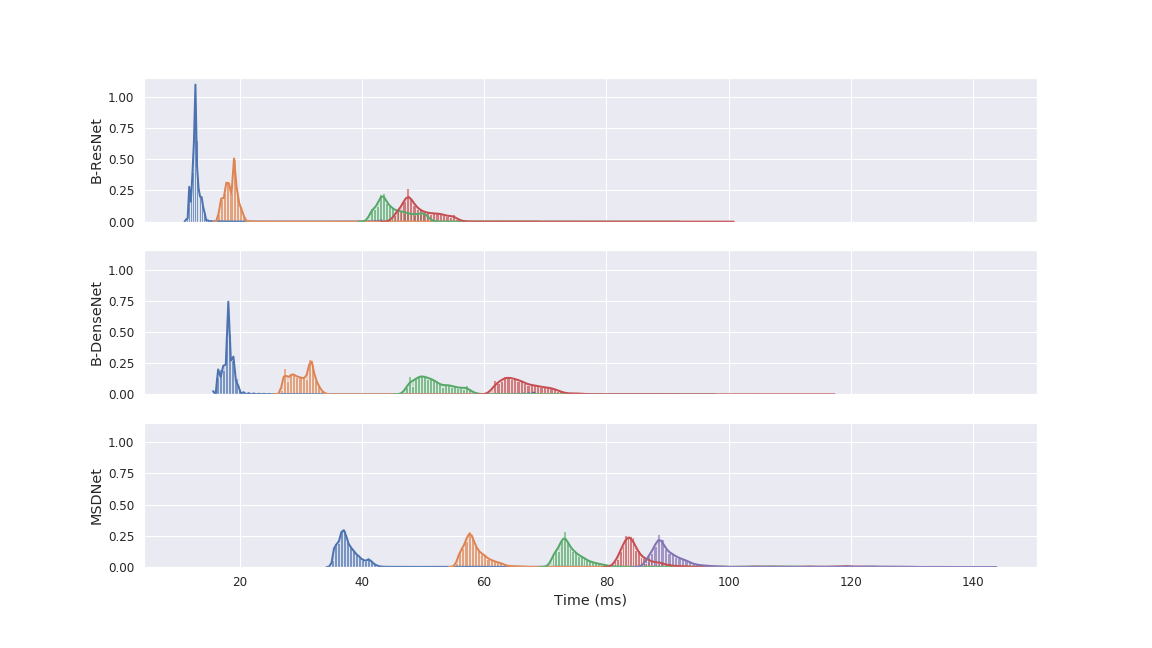
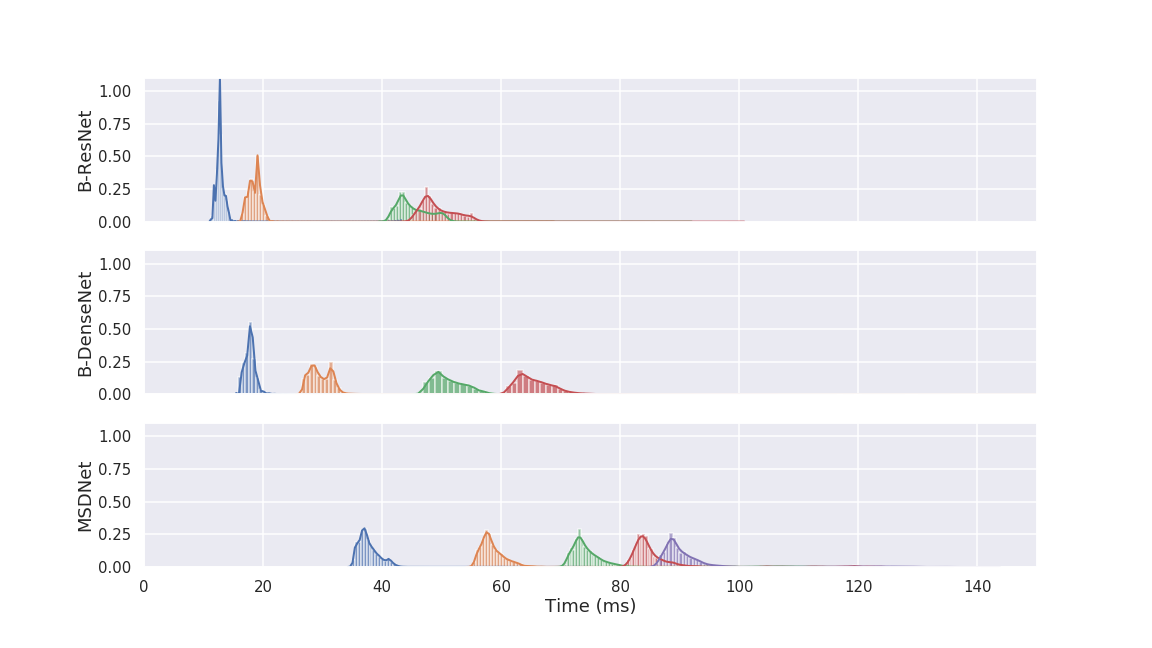
jetson inference analysis

diff --git a/report/sections/Experiments.tex b/report/sections/Experiments.tex
@@ -300,13 +300,12 @@ The figure clearly states the accuracy-latency trade-off imposed by early exitin
 \section{Inference Time Analysis}
 
 \begin{figure}
-	\captionsetup[subfigure]{justification=centering}
+	\captionsetup[subfigure]{farskip=0pt,captionskip=0pt, justification=centering}
 	\centering
+	\subfloat{\includegraphics[width=.8\linewidth]{figures/threshold_plots/time_dist_legend}}
+	\hfill
 	\subfloat[Windows PC]{\includegraphics[width=\linewidth]{figures/threshold_plots/inference_time_distribution}}
-\end{figure}
-\begin{figure}
-	\captionsetup[subfigure]{justification=centering}
-	\centering
+	\hfill
 	\subfloat[Jetson TX2]{\includegraphics[width=\linewidth]{figures/threshold_plots/jetson_inference_time_distribution}}
 	\caption[Inference Time Distribution]{Inference Time Distribution}
 \end{figure}
